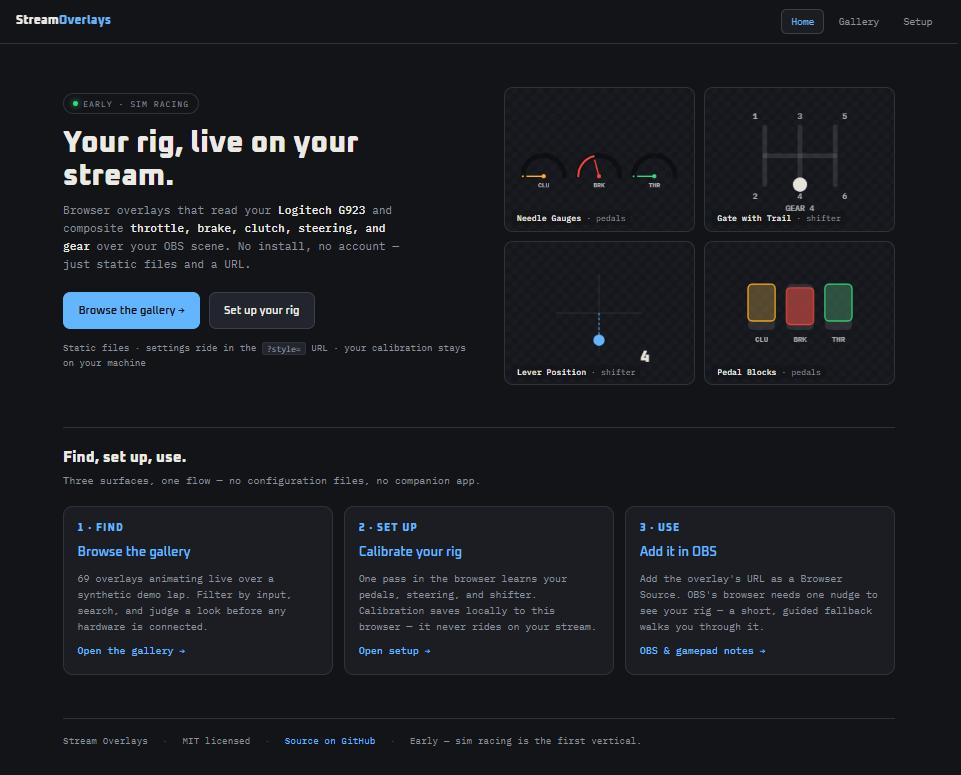
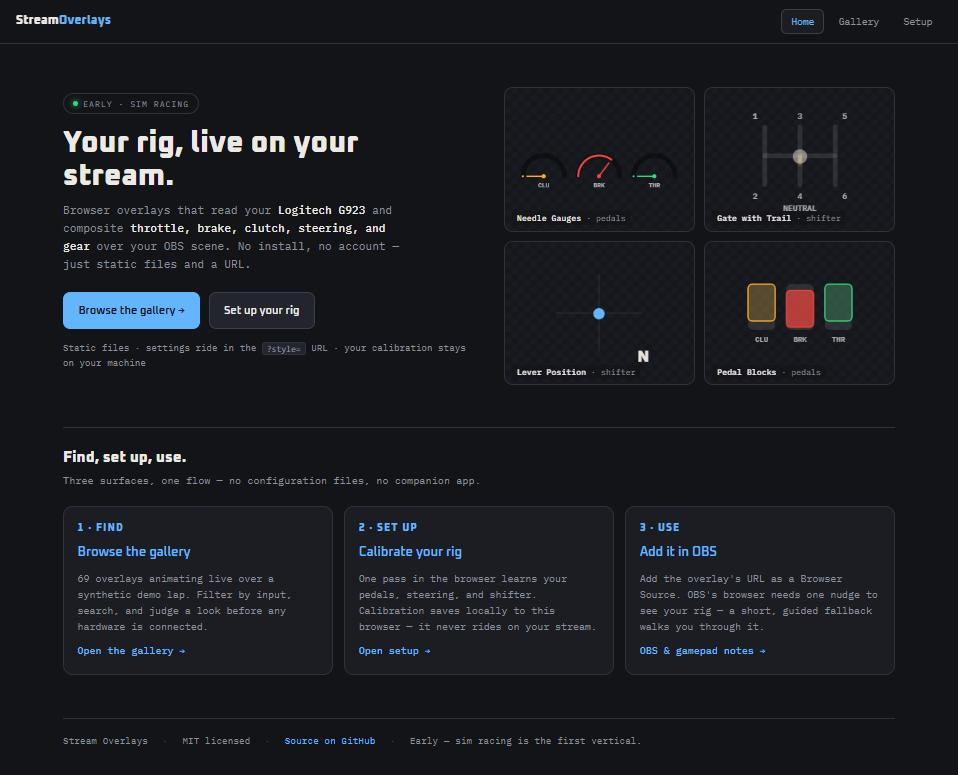
Pick a more legible frame for the hero shot
The first capture caught the lap mid-corner: both shifter overlays read GEAR 4
and the clutch and throttle sat at zero, so two of the four tiles showed a
number and the pedal arcs were nearly empty.

This frame puts the shifter in neutral — Gate with Trail draws its NEUTRAL
callout with the knob centred, Lever Position reads N — and all three pedal
channels are live, which is what those overlays are for.

Worth recording how it was chosen. The demo lap has 247 neutral frames but
only 2 where the clutch is also in, and neither blips the throttle, so no real
frame in 30 seconds shows neutral with clutch and gas together. The shot takes
the genuine neutral-with-clutch frame — keeping its real rpm, speed and trail
history — and raises the pedals to a heel-and-toe reading: clutch in, gearbox
through neutral, throttle blipped to match revs, still braking. That is a real
driving state; this lap simply never scripts one, which is arguably a gap in
the lap rather than a licence taken here.

Claude-Session: https://claude.ai/code/session_01NrBdMXdGYzNAF1AsHm99X6

diff --git a/README.md b/README.md
@@ -7,7 +7,7 @@
 
 Browser **overlays for streamers** that read your hardware in the browser and composite over your scene in **OBS**. Everything is a **static file** and every setting lives **in the URL**, so there is no install, no account, and nothing to host but plain files. The first vertical is **sim racing** — live **throttle / brake / clutch / steering / gears** from a **Logitech G923**, drawn as a catalogue of small canvas overlays.
 
-![The Stream Overlays landing page: the headline "Your rig, live on your stream." beside four overlays animating over a demo lap — Needle Gauges, Gate with Trail showing GEAR 4, Lever Position, and Pedal Blocks — above a three-step find, set up, use flow.](docs/assets/landing.png)
+![The Stream Overlays landing page: the headline "Your rig, live on your stream." beside four overlays — Needle Gauges showing clutch, brake and throttle arcs; Gate with Trail and Lever Position both reading NEUTRAL with the lever centred; and Pedal Blocks — above a three-step find, set up, use flow.](docs/assets/landing.png)
 
 > **Status: works, not yet hosted.** The catalogue holds **73 overlays** (`overlays/sim-racing/catalogue.json`, the source of truth); all **69** non-excluded ones are migrated to the one-file-per-overlay module architecture and pixel-checked against a golden render (see [Testing](#testing)). Pedals, wheel, H-shifter and paddles all bind to a real G923 and are verified on hardware. What is missing is **hosting** — you run it from a local static server today, so the overlay URLs only work while that server is up.
 
